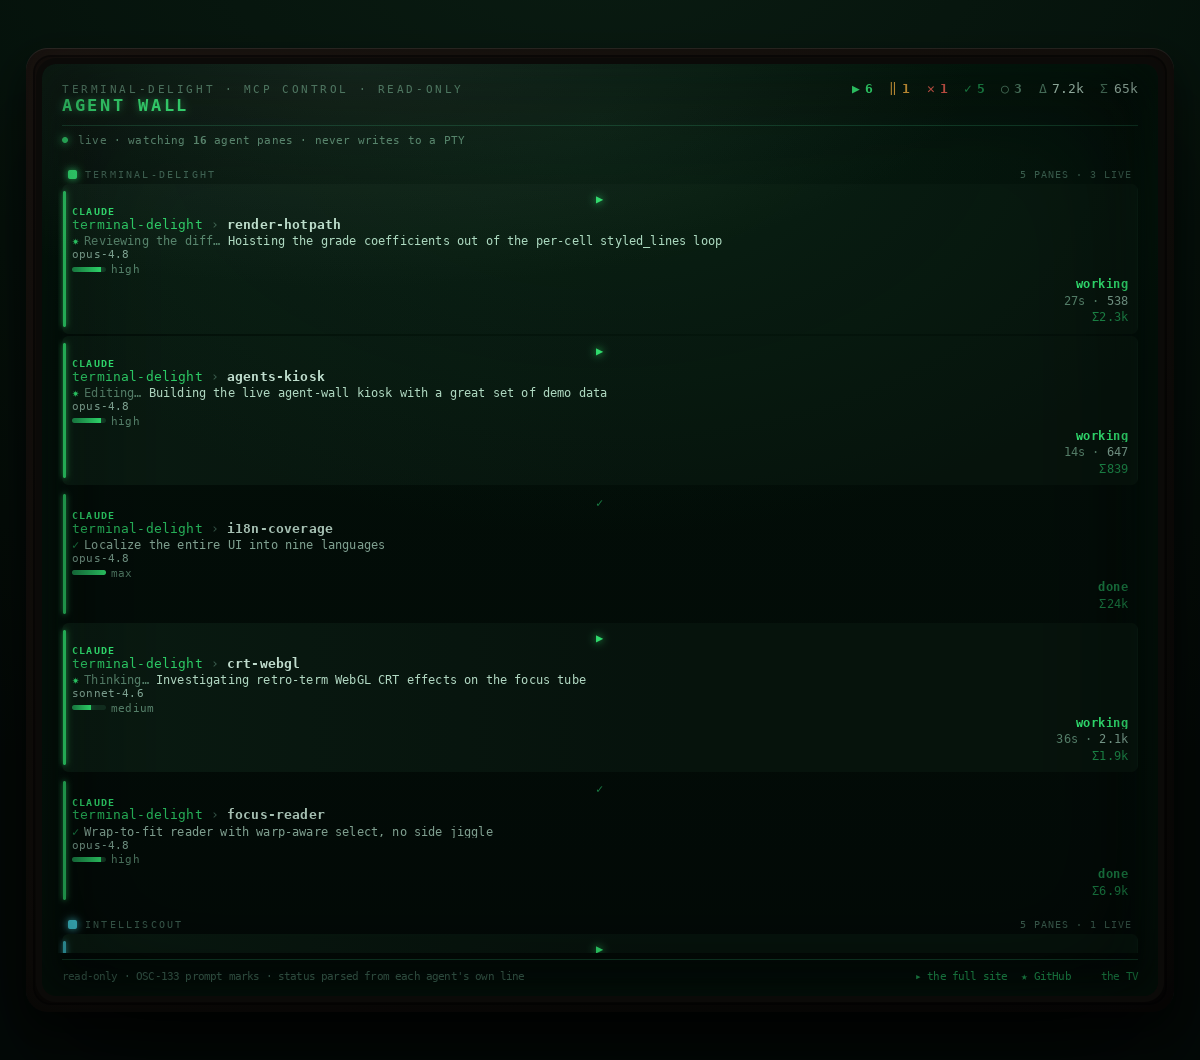
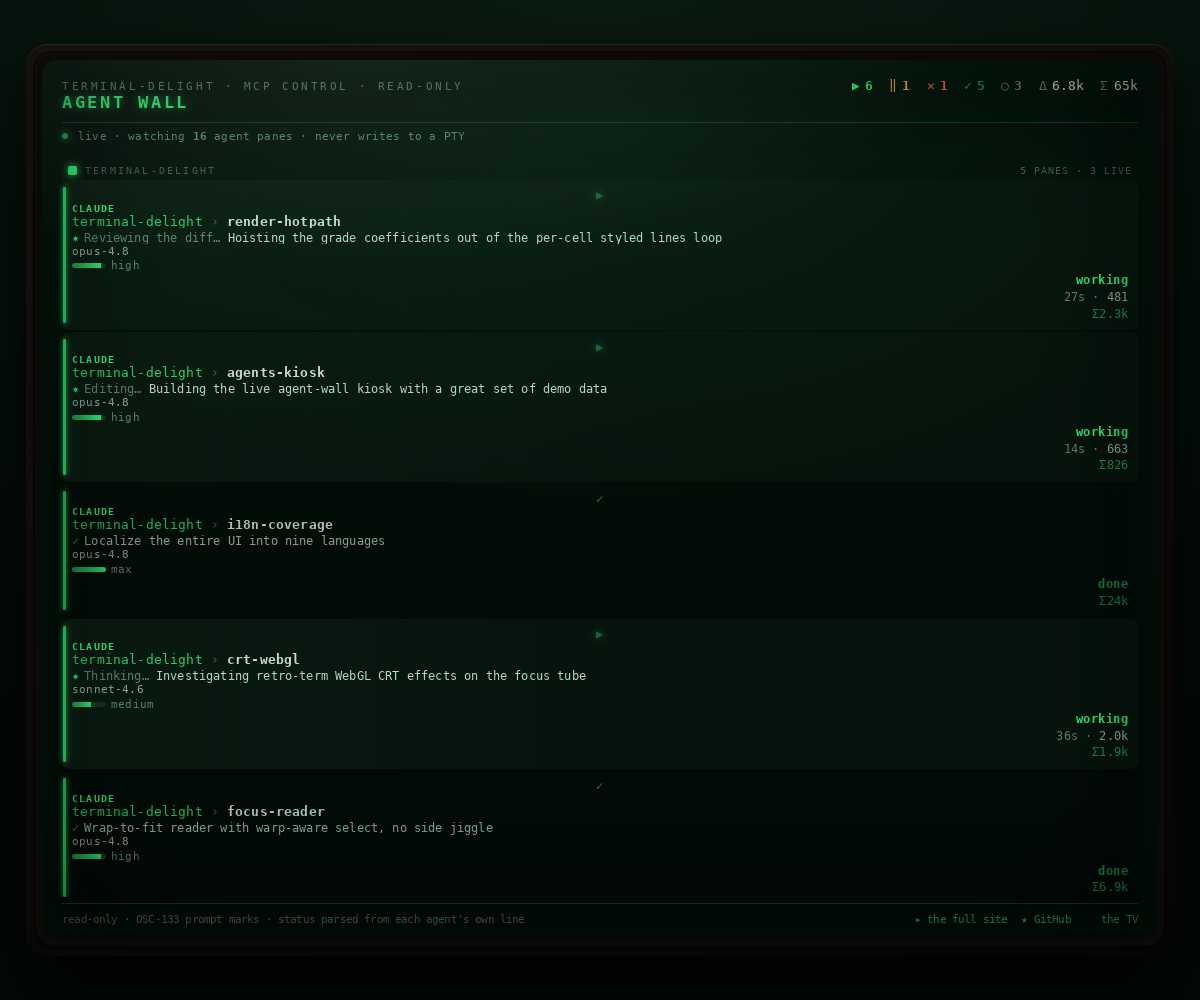
fix(web): staged/fictional agent-wall data + un-overlap the MCP code note
The agent wall is public demo media, so it must never carry real prompts,
paths, or business. Replaced the seeded fleet with an obviously-fictional
set (aurora-api / storefront-web / ml-pipeline / docs-site / infra + generic
shells); the only real rows left are terminal-delight's own already-public,
shipped features. Refreshed the info-page screenshot to match.

Also fixed a pre-existing overlap in the #mcp section: the .playnote is
absolutely positioned to overlay an image, but here it sits over a <pre>
code block and covered the last lines — pinned this instance to in-flow
(static) so it reads as a footer bar under the code.

diff --git a/agents.html b/agents.html
@@ -166,44 +166,46 @@
 <script>
 // ---- tab groups (projects) → colour, mirroring TD's coloured tab-group bands ----
 const GROUPS = {
-  'terminal-delight':    {c:'#36ff7e'},
-  'intelliscout':        {c:'#46d9e8'},
-  'brown-family-sports': {c:'#ffb13c'},
-  'markdown-delight':    {c:'#c084fc'},
-  'stephbrownpt':        {c:'#ff7eb6'},
-  'apes':                {c:'#9fe06a'},
-  'shell':               {c:'#3f6354'},
+  'terminal-delight': {c:'#36ff7e'},
+  'aurora-api':       {c:'#46d9e8'},
+  'storefront-web':   {c:'#ffb13c'},
+  'ml-pipeline':      {c:'#c084fc'},
+  'docs-site':        {c:'#ff7eb6'},
+  'infra':            {c:'#9fe06a'},
+  'shell':            {c:'#3f6354'},
 };
 const MODELS = ['opus-4.8','sonnet-4.6','haiku-4.5'];
 // a working agent cycles through these gerunds, like the real "✷ Accomplishing…" line
 const GERUNDS = ['Reading files','Editing','Running tests','Searching','Reasoning','Compiling','Reviewing the diff','Thinking'];
 
-// ---- the fleet: a rich, realistic snapshot drawn from a real BFS multi-agent day ----
-// state: working | idle | blocked | error | done   ·   eff: 0..1 effort   ·   sess: session Σ tokens
+// ---- the fleet: a representative, FICTIONAL snapshot — staged demo data only.
+// No real projects, paths, or business: public demo media must never carry real
+// prompts/paths. (The terminal-delight rows reference its own already-public,
+// shipped features.)  state: working|idle|blocked|error|done · eff 0..1 · sess Σ
 let A = [
-  {g:'terminal-delight', tab:'render-hotpath',   model:'opus-4.8',  eff:.85, state:'working', prompt:'Hoisting the grade coefficients out of the per-cell styled_lines loop', t:24, tok:126,  sess:2200},
-  {g:'terminal-delight', tab:'agents-kiosk',     model:'opus-4.8',  eff:.85, state:'working', prompt:'Building the live agent-wall kiosk with a great set of demo data', t:11, tok:393,  sess:773},
-  {g:'terminal-delight', tab:'i18n-coverage',    model:'opus-4.8',  eff:1.0, state:'done',    prompt:'Localize the entire UI into nine languages', t:0, tok:0, sess:24100},
-  {g:'terminal-delight', tab:'crt-webgl',        model:'sonnet-4.6',eff:.55, state:'working', prompt:'Investigating retro-term WebGL CRT effects on the focus tube', t:33, tok:1800, sess:1800},
-  {g:'terminal-delight', tab:'focus-reader',     model:'opus-4.8',  eff:.85, state:'done',    prompt:'Wrap-to-fit reader with warp-aware select, no side jiggle', t:0, tok:0, sess:6900},
+  {g:'terminal-delight', tab:'render-hotpath', model:'opus-4.8',  eff:.85, state:'working', prompt:'Hoisting the grade coefficients out of the per-cell styled_lines loop', t:24, tok:126,  sess:2200},
+  {g:'terminal-delight', tab:'agents-kiosk',   model:'opus-4.8',  eff:.85, state:'working', prompt:'Building the live agent-wall kiosk with a great set of demo data', t:11, tok:393,  sess:773},
+  {g:'terminal-delight', tab:'i18n-coverage',  model:'opus-4.8',  eff:1.0, state:'done',    prompt:'Localize the entire UI into nine languages', t:0, tok:0, sess:24100},
+  {g:'terminal-delight', tab:'crt-webgl',      model:'sonnet-4.6',eff:.55, state:'working', prompt:'Investigating retro-term WebGL CRT effects on the focus tube', t:33, tok:1800, sess:1800},
+  {g:'terminal-delight', tab:'focus-reader',   model:'opus-4.8',  eff:.85, state:'done',    prompt:'Wrap-to-fit reader with warp-aware select, no side jiggle', t:0, tok:0, sess:6900},
 
-  {g:'intelliscout', tab:'map-cache',        model:'opus-4.8',  eff:.85, state:'working', prompt:'Optimizing map performance with pre-cached KML tiles', t:64, tok:1600, sess:1600},
-  {g:'intelliscout', tab:'map-cache·retry',  model:'opus-4.8',  eff:.85, state:'error',   prompt:'Optimize map performance with pre-cached KML files', t:0, tok:1800, sess:1800},
-  {g:'intelliscout', tab:'patent-filings',   model:'opus-4.8',  eff:1.0, state:'blocked', prompt:'Drive provisional patent filings to completion — needs your sign-off', t:0, tok:0, sess:4100},
-  {g:'intelliscout', tab:'pm-google-chat',   model:'opus-4.8',  eff:.85, state:'done',    prompt:'Integrate the PM tool with Google Chat for status updates', t:0, tok:0, sess:9700},
-  {g:'intelliscout', tab:'north-x-funding',  model:'sonnet-4.6',eff:.55, state:'idle',    prompt:'Review local tasks API and the North X funding stream', t:0, tok:0, sess:0},
+  {g:'aurora-api', tab:'cold-start',       model:'opus-4.8',  eff:.85, state:'working', prompt:'Profiling the cold-start path and caching the slow startup query', t:64, tok:1600, sess:1600},
+  {g:'aurora-api', tab:'cold-start·retry', model:'opus-4.8',  eff:.85, state:'error',   prompt:'Profile the cold-start path and cache the slow startup query', t:0, tok:1800, sess:1800},
+  {g:'aurora-api', tab:'auth-tests',       model:'opus-4.8',  eff:1.0, state:'blocked', prompt:'Add integration tests for the auth middleware — needs your review of the fixtures', t:0, tok:0, sess:4100},
+  {g:'aurora-api', tab:'upload-retry',     model:'opus-4.8',  eff:.85, state:'done',    prompt:'Add retry with exponential backoff to the upload client', t:0, tok:0, sess:9700},
+  {g:'aurora-api', tab:'flaky-ci',         model:'sonnet-4.6',eff:.55, state:'idle',    prompt:'Triage the flaky CI tests and quarantine the worst offenders', t:0, tok:0, sess:0},
 
-  {g:'brown-family-sports', tab:'servo-skills',     model:'opus-4.8',  eff:.85, state:'working', prompt:'Designing agent skills for servo and the web-access tools', t:47, tok:690, sess:2400},
-  {g:'brown-family-sports', tab:'pricing-proposal', model:'opus-4.8',  eff:.85, state:'done',    prompt:'Review website and business pricing proposal', t:0, tok:0, sess:3000},
-  {g:'brown-family-sports', tab:'gmail-access',     model:'opus-4.8',  eff:.55, state:'idle',    prompt:'Set up Gmail access for Parker at Brown Family Sports', t:0, tok:0, sess:0},
+  {g:'storefront-web', tab:'checkout-flow', model:'opus-4.8', eff:.85, state:'working', prompt:'Refactoring the checkout flow into smaller, testable components', t:47, tok:690, sess:2400},
+  {g:'storefront-web', tab:'api-v2-docs',   model:'opus-4.8', eff:.85, state:'done',    prompt:'Draft the API reference for the v2 endpoints', t:0, tok:0, sess:3000},
+  {g:'storefront-web', tab:'onboarding',    model:'opus-4.8', eff:.55, state:'idle',    prompt:'Polish the first-run onboarding copy', t:0, tok:0, sess:0},
 
-  {g:'apes', tab:'localization-section', model:'opus-4.8', eff:.85, state:'done', prompt:'Build the dedicated APES localization knowledge section', t:0, tok:0, sess:5500},
+  {g:'infra', tab:'dep-bump', model:'opus-4.8', eff:.85, state:'done', prompt:'Bump dependencies and fix the breaking changes', t:0, tok:0, sess:5500},
 
-  {g:'markdown-delight', tab:'render-bench', model:'sonnet-4.6', eff:.55, state:'working', prompt:'Benchmarking the markdown render path against very large documents', t:19, tok:540, sess:1100},
-  {g:'stephbrownpt',     tab:'booking-flow', model:'haiku-4.5',  eff:.30, state:'idle',    prompt:'Polish the physiotherapy booking-flow copy', t:0, tok:0, sess:0},
+  {g:'ml-pipeline', tab:'feature-bench', model:'sonnet-4.6', eff:.55, state:'working', prompt:'Benchmarking the feature-extraction stage on large batches', t:19, tok:540, sess:1100},
+  {g:'docs-site',   tab:'static-gen',    model:'haiku-4.5',  eff:.30, state:'idle',    prompt:'Migrate the docs to the new static-site generator', t:0, tok:0, sess:0},
 
-  {g:'shell', tab:'pbrown@brown', model:null, eff:0, state:'shell', prompt:'~/BROWN-FAMILY-SPORTS/Software/terminal-delight', t:0, tok:0, sess:0},
-  {g:'shell', tab:'processor-watch', model:null, eff:0, state:'shell', prompt:'PROCESSOR WATCH · ~/BROWN-FAMILY-SPORTS/HOME', t:0, tok:0, sess:0},
+  {g:'shell', tab:'dev@workstation', model:null, eff:0, state:'shell', prompt:'~/code/aurora-api', t:0, tok:0, sess:0},
+  {g:'shell', tab:'build-watch',     model:null, eff:0, state:'shell', prompt:'cargo watch -x build · ~/code/terminal-delight', t:0, tok:0, sess:0},
 ];
 
 const STATE = {

diff --git a/info.html b/info.html
@@ -317,7 +317,7 @@
             "tool": "Bash", "summary": "cargo test --release" } }
 <span style="color:var(--warn)">notifications/message</span> {
   "data": { "event": "agent_vanished", "pane": "tests" } }</pre>
-        <div class="playnote">Read-only by construction — <b>nothing here can write to a terminal.</b> Locked off by default; when on, agents-only (a plain shell is never exposed). stdio JSON-RPC, <b>never a network port.</b></div>
+        <div class="playnote" style="position:static;background:var(--bg-2);border-top:1px solid var(--line)">Read-only by construction — <b>nothing here can write to a terminal.</b> Locked off by default; when on, agents-only (a plain shell is never exposed). stdio JSON-RPC, <b>never a network port.</b></div>
       </div>
 
       <p style="margin-top:16px">It ships behind a <b>🤖 robot button</b> on the mother bar that opens an <b>MCP CONTROL — READ ONLY</b> panel: a master switch, an expose policy (agents-only / all), an events toggle, and a live list of every pane with a per-pane exposed dot. The danger in any agent-control surface is the <em>write</em> path (bytes into a shell = arbitrary code execution); that path simply does not exist here — the observe plane shipped first, alone.</p>